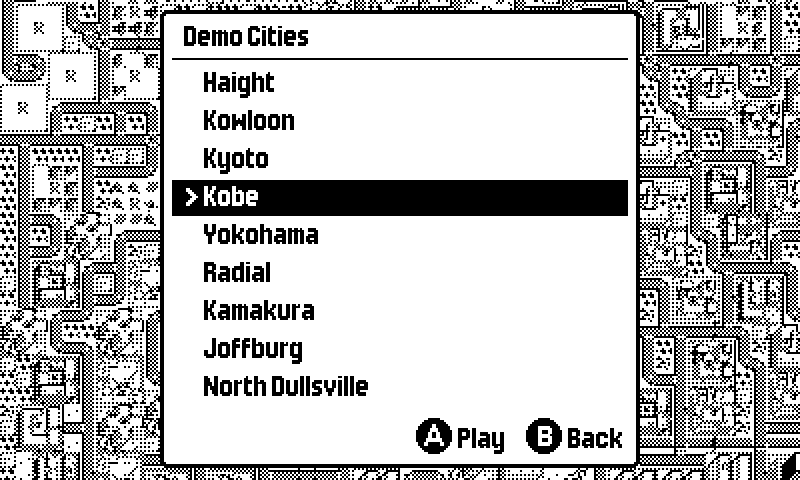
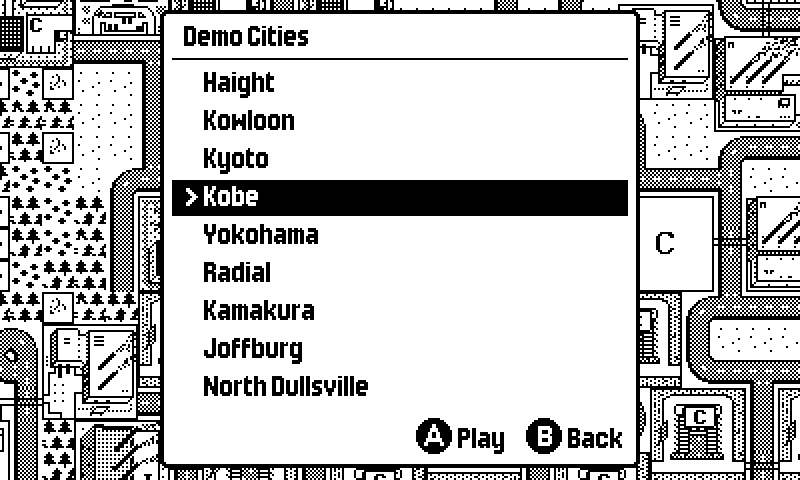
Original 1px scrolling; title backdrop at near zoom
Go back to plain per-pixel scrolling (no 2px snapping, no dither
variants) in the game and on the title. The title's demo city now drifts
at near zoom (16px), showing the original hand-dithered tile art instead
of the generated 8px far-zoom tiles, with a slower drift to keep the pace.

Changed region(s): [[0.0, 0.0, 1.0, 1.0]]

diff --git a/src/scene_title.c b/src/scene_title.c
@@ -53,12 +53,13 @@ static bool s_rep[SIM_ACT_COUNT];
 static float s_crank_acc = 0.0f;
 
 /* Backdrop: a demo city drifting under the menu, swapped every so often */
+#define BACKDROP_ZOOM 16 /* near zoom: the original hand-dithered tile art */
 #define BACKDROP_PERIOD 40.0f
 #define BACKDROP_FADE 0.6f
 static int s_demo = 0;
 static float s_backdrop_t = 0.0f;
 static bool s_backdrop_is_demo = false;
-static int s_bx0, s_by0, s_bx1, s_by1; /* built-up area, px at 8px zoom */
+static int s_bx0, s_by0, s_bx1, s_by1; /* built-up area, px at BACKDROP_ZOOM */
 
 static const struct {
     const char *name;
@@ -146,14 +147,14 @@ static void backdrop_measure(void)
 {
     int x0, y0, x1, y1;
     if (game_city_bounds(&x0, &y0, &x1, &y1)) {
-        s_bx0 = x0 * 8;
-        s_by0 = y0 * 8;
-        s_bx1 = (x1 + 1) * 8;
-        s_by1 = (y1 + 1) * 8;
+        s_bx0 = x0 * BACKDROP_ZOOM;
+        s_by0 = y0 * BACKDROP_ZOOM;
+        s_bx1 = (x1 + 1) * BACKDROP_ZOOM;
+        s_by1 = (y1 + 1) * BACKDROP_ZOOM;
     } else {
         s_bx0 = s_by0 = 0;
-        s_bx1 = CITY_W * 8;
-        s_by1 = CITY_H * 8;
+        s_bx1 = CITY_W * BACKDROP_ZOOM;
+        s_by1 = CITY_H * BACKDROP_ZOOM;
     }
 }
 
@@ -354,22 +355,19 @@ static float drift_axis(int lo, int hi, int view, int world, float phase)
 static void draw_backdrop(void)
 {
     mapview_sync();
-    /* Slow Lissajous drift over the 8px city, starting fresh with each city */
+    /* Slow Lissajous drift over the city, starting fresh with each city */
+    const int Z = BACKDROP_ZOOM;
     float t = s_backdrop_t + s_demo * 11.0f;
     /* The menu card covers the left of the screen: aim the open right part
      * (from x = MENU_COVER) at the dense area */
     const int MENU_COVER = 200;
-    int vx = (int)drift_axis(s_bx0, s_bx1, SCREEN_W - MENU_COVER, CITY_W * 8 + MENU_COVER, sinf(t * 0.11f));
+    int vx = (int)drift_axis(s_bx0, s_bx1, SCREEN_W - MENU_COVER, CITY_W * Z + MENU_COVER, sinf(t * 0.06f));
     int cx = vx - MENU_COVER;
     if (cx < 0) cx = 0;
-    if (cx > CITY_W * 8 - SCREEN_W) cx = CITY_W * 8 - SCREEN_W;
-    int cy = (int)drift_axis(s_by0, s_by1, SCREEN_H, CITY_H * 8, sinf(t * 0.08f + 1.0f));
-    /* Move in 2px steps: the tiles' dithers repeat every 2px, so odd-pixel
-     * steps would make every patterned area flicker as the city drifts */
-    cx &= ~1;
-    cy &= ~1;
-    mapview_draw(8, cx, cy, 0, 0, SCREEN_W, SCREEN_H);
-    mapview_draw_sprites(8, cx, cy, 0, 0, SCREEN_W, SCREEN_H);
+    if (cx > CITY_W * Z - SCREEN_W) cx = CITY_W * Z - SCREEN_W;
+    int cy = (int)drift_axis(s_by0, s_by1, SCREEN_H, CITY_H * Z, sinf(t * 0.045f + 1.0f));
+    mapview_draw(Z, cx, cy, 0, 0, SCREEN_W, SCREEN_H);
+    mapview_draw_sprites(Z, cx, cy, 0, 0, SCREEN_W, SCREEN_H);
 
     /* Dissolve to black around a city swap */
     float fade = 0.0f;

diff --git a/src/game_internal.h b/src/game_internal.h
@@ -7,6 +7,7 @@
 #ifndef GAME_INTERNAL_H
 #define GAME_INTERNAL_H
 
+#include <math.h>
 #include <stdbool.h>
 #include "sim_input.h"
 #include "map_view.h"
@@ -62,16 +63,9 @@ typedef struct {
 
 extern game_state_t G;
 
-/* Camera in whole screen pixels, snapped to even values. The tile art's
- * dithers repeat every 2px, so moving in 2px steps keeps them stable on
- * screen instead of flipping phase (shimmering) on odd-pixel moves. */
-static inline int cam_px(float v)
-{
-    int i = (int)(v < 0 ? v - 1.0f : v);
-    return i & ~1;
-}
-#define CAM_X() cam_px(G.cam_x)
-#define CAM_Y() cam_px(G.cam_y)
+/* Camera in whole screen pixels */
+#define CAM_X() ((int)floorf(G.cam_x))
+#define CAM_Y() ((int)floorf(G.cam_y))
 
 /* --- game.c services used by screens ------------------------------------ */
 int  game_tool_cost(int tool);
